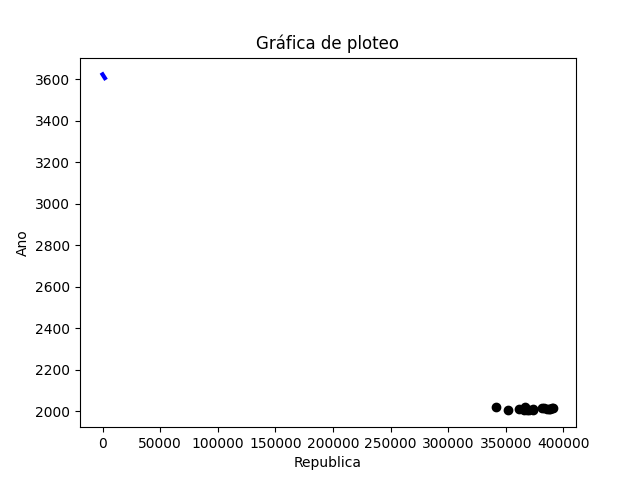
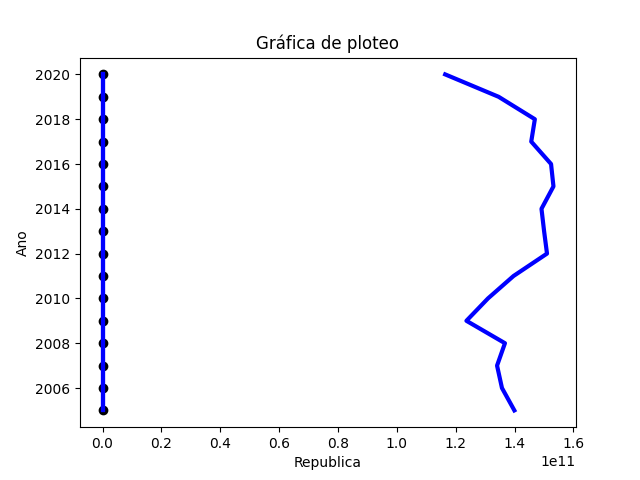
arreglando grafica sin linea

diff --git a/interfaz.py b/interfaz.py
@@ -77,8 +77,21 @@ def FunLinearRegre():
             # se hace el entrenamiento del modelo
             regr = linear_model.LinearRegression()
             regr.fit(x,y)
+
+
+            st.markdown('### Gráfica de dispersión')
+            fig, ax = plt.subplots(1,1)
+            fig.suptitle('Gráfica de Dispersión', fontsize="10")
+            ax.grid()
+            ax.set_xlabel(parameters1)
+            ax.set_ylabel(parameters2)
+            ax.scatter(x,y, color='black')
+                    
+            st.pyplot(fig)
+
+
             st.markdown('### Predicción:')
-            if paramPredic != None:
+            if paramPredic is not None:
                 new_min = 0
                 new_max = int(paramPredic)
                 x_new = np.linspace(new_min, new_max,50)
@@ -92,19 +105,7 @@ def FunLinearRegre():
             st.markdown('### Función de tendencia: ')
             funStr = 'Y = '+ str(regr.coef_[0]) +"X"+" + "+str(regr.intercept_)
             st.info(funStr)
-
-            # se realiza el plot
-            plt.xlabel(parameters1)
-            plt.ylabel(parameters2)
-            plt.title("Gráfica de ploteo")
-            plt.scatter(x,y, color='black')
-            plt.plot(x_new,y_pred, color='blue',linewidth=3)
-
-            plt.savefig('tendencia.png')
-            plt.close()
-        
-            image4 = Image.open('tendencia.png')
-            st.image(image4,width=1200,use_column_width='auto')
+               
             st.table(data)
         else:
             st.warning('Los parametros deben de ser diferentes')
@@ -113,13 +114,13 @@ def FunLinearRegre():
 # metodo para obtener el parametro de la X
 def GetParameter1(df:pd.DataFrame):
     options = df.columns.values
-    selectionP = st.selectbox('Parametro 1', options)
+    selectionP = st.selectbox('Parametro 1 para el eje X', options)
     return selectionP
 
 # metodo para obtener el parametro de la Y
 def GetParameter2(df:pd.DataFrame):
     options = df.columns.values
-    selectionP = st.selectbox('Parametro 2', options)
+    selectionP = st.selectbox('Parametro 2 para el eje Y', options)
     return selectionP
 
 
@@ -203,6 +204,17 @@ def FunRegrePol():
             if grade != None:
                 pol_features = PolynomialFeatures(degree=int(grade))
                 x_trans = pol_features.fit_transform(x)
+                
+                st.markdown('### Gráfica de dispersión: ')
+                fig, ax = plt.subplots(1,1)
+                fig.suptitle('Gráfica de Dispersión', fontsize="10")
+                ax.grid()
+                ax.set_xlabel(parameters1)
+                ax.set_ylabel(parameters2)
+                ax.scatter(x,y, color='black')
+                    
+                st.pyplot(fig)
+
 
             # se hace el entrenamiento del modelo
             regr = linear_model.LinearRegression()
@@ -217,7 +229,7 @@ def FunRegrePol():
                 # se hace el seteo del grado y la transformacion del eje x
                 x_transc = pol_features.fit_transform(x_new)
                 y_pred = regr.predict(x_transc)
-                st.info(max(y_pred))
+                st.info(y_pred[y_pred.size-1])
 
 
             funStr = ""
@@ -237,17 +249,7 @@ def FunRegrePol():
             st.markdown('#### Intercepto') 
             st.info(regr.intercept_)
             
-            plt.xlabel(parameters1)
-            plt.ylabel(parameters2)
-            plt.title("Gráfica de ploteo")
-            plt.scatter(x,y, color='black')
-            plt.plot(x_new,y_pred, color='blue',linewidth=3)
-
-            plt.savefig('polinomial.png')
-            plt.close()
-        
-            image4 = Image.open('polinomial.png')
-            st.image(image4,width=1200,use_column_width='auto')
+            
             st.table(data)
         else:
             st.warning('Los parametros deben de ser diferentes')
@@ -348,9 +350,9 @@ def FunArboles():
         playEncoded = le.fit_transform(nameClass)
 
         features = list(zip(*lstEncondedP))
-        print(features)
 
         model = DecisionTreeClassifier().fit(features, playEncoded)
+        st.markdown('### Gráfica del árbol: ')
         plot_tree(model, filled=True)
         plt.savefig('arbol.png')
         #plt.close()
